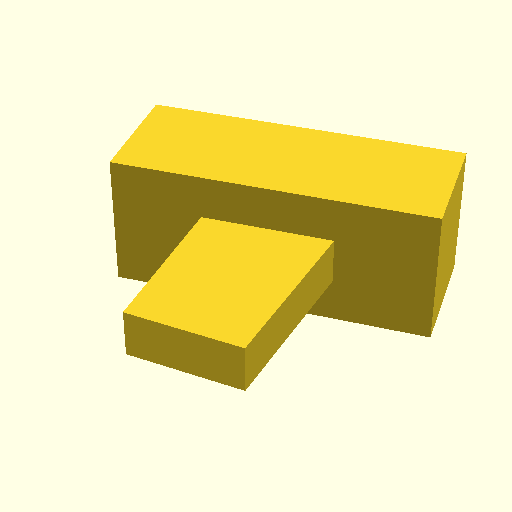
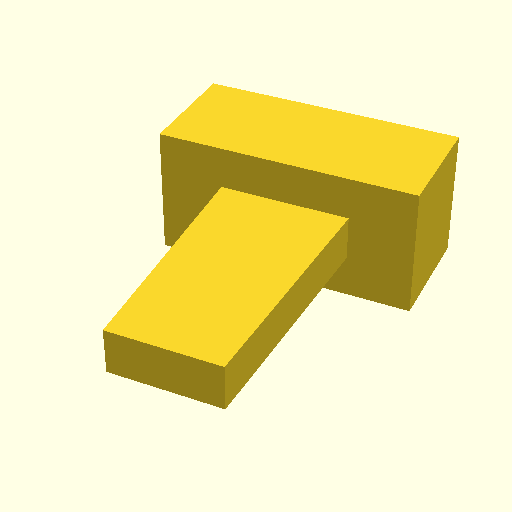
x

Changed region(s): [[0.1875, 0.1562, 0.9062, 0.8125], [0.5312, 0.6562, 0.5625, 0.6875]]

diff --git a/monsieurcuisine_cup_fix/README.md b/monsieurcuisine_cup_fix/README.md
@@ -1,5 +1,5 @@
 # Monsieur Cuisine Cup Fix
 
-Small OpenSCAD repair leg for the Monsieur Cuisine cup, with a slanted broken top and a short sleeve to receive the matching broken piece.
+Small OpenSCAD repair leg for the Monsieur Cuisine cup, with a straight top sleeve to receive the matching broken piece.
 
 ![Rendered preview](./cup_fix.png)
